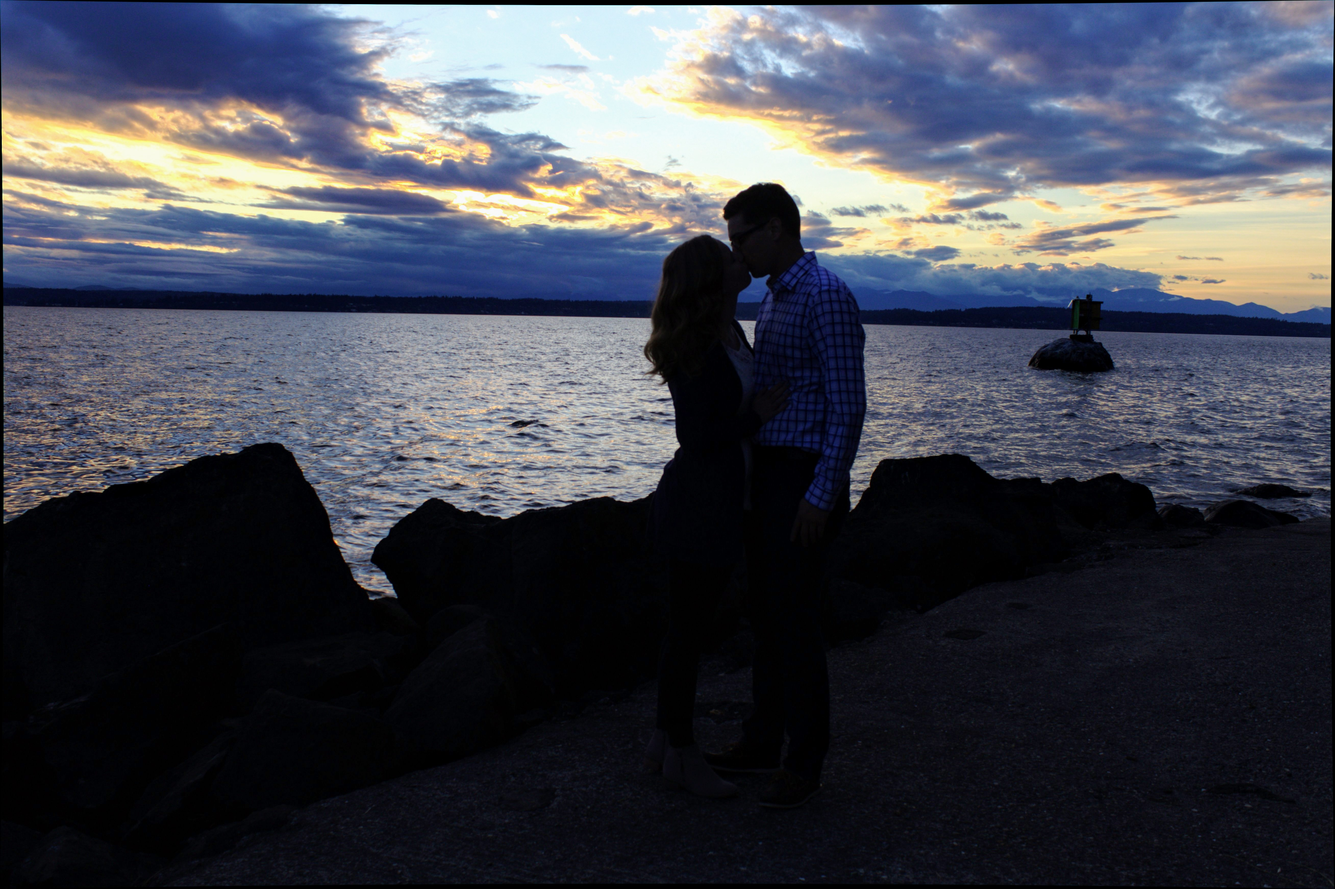
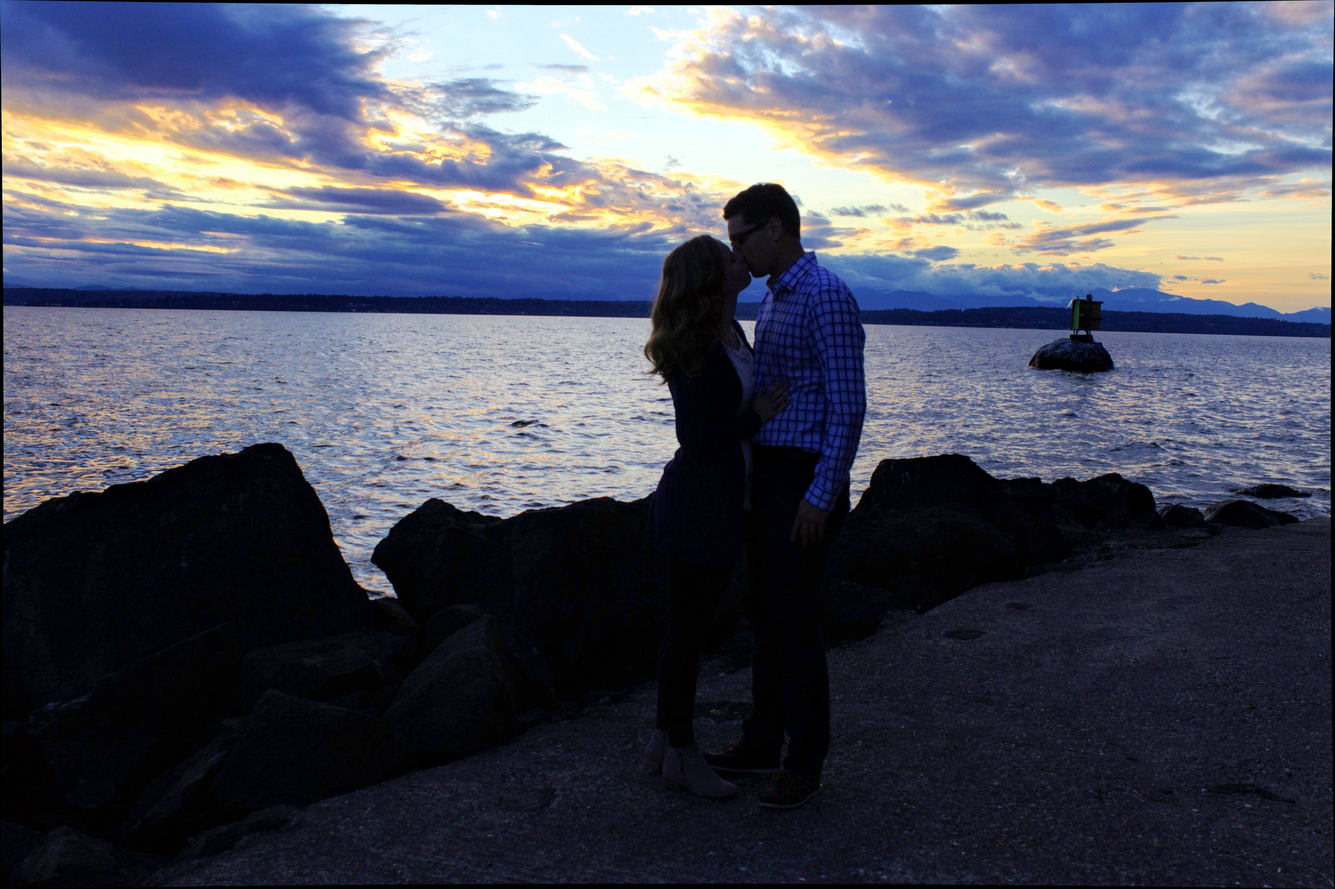
make bg image much smaller

diff --git a/main/public/css/scss/home.scss b/main/public/css/scss/home.scss
@@ -105,7 +105,7 @@
 /* Small Devices, Tablets */
 @media only screen and (min-width : 768px) {
     body {
-        background: url("/img/altbg.jpg") no-repeat center center fixed;
+        background: url("/img/altbg-sm.jpg") no-repeat center center fixed;
     }
 
     .body-text {
